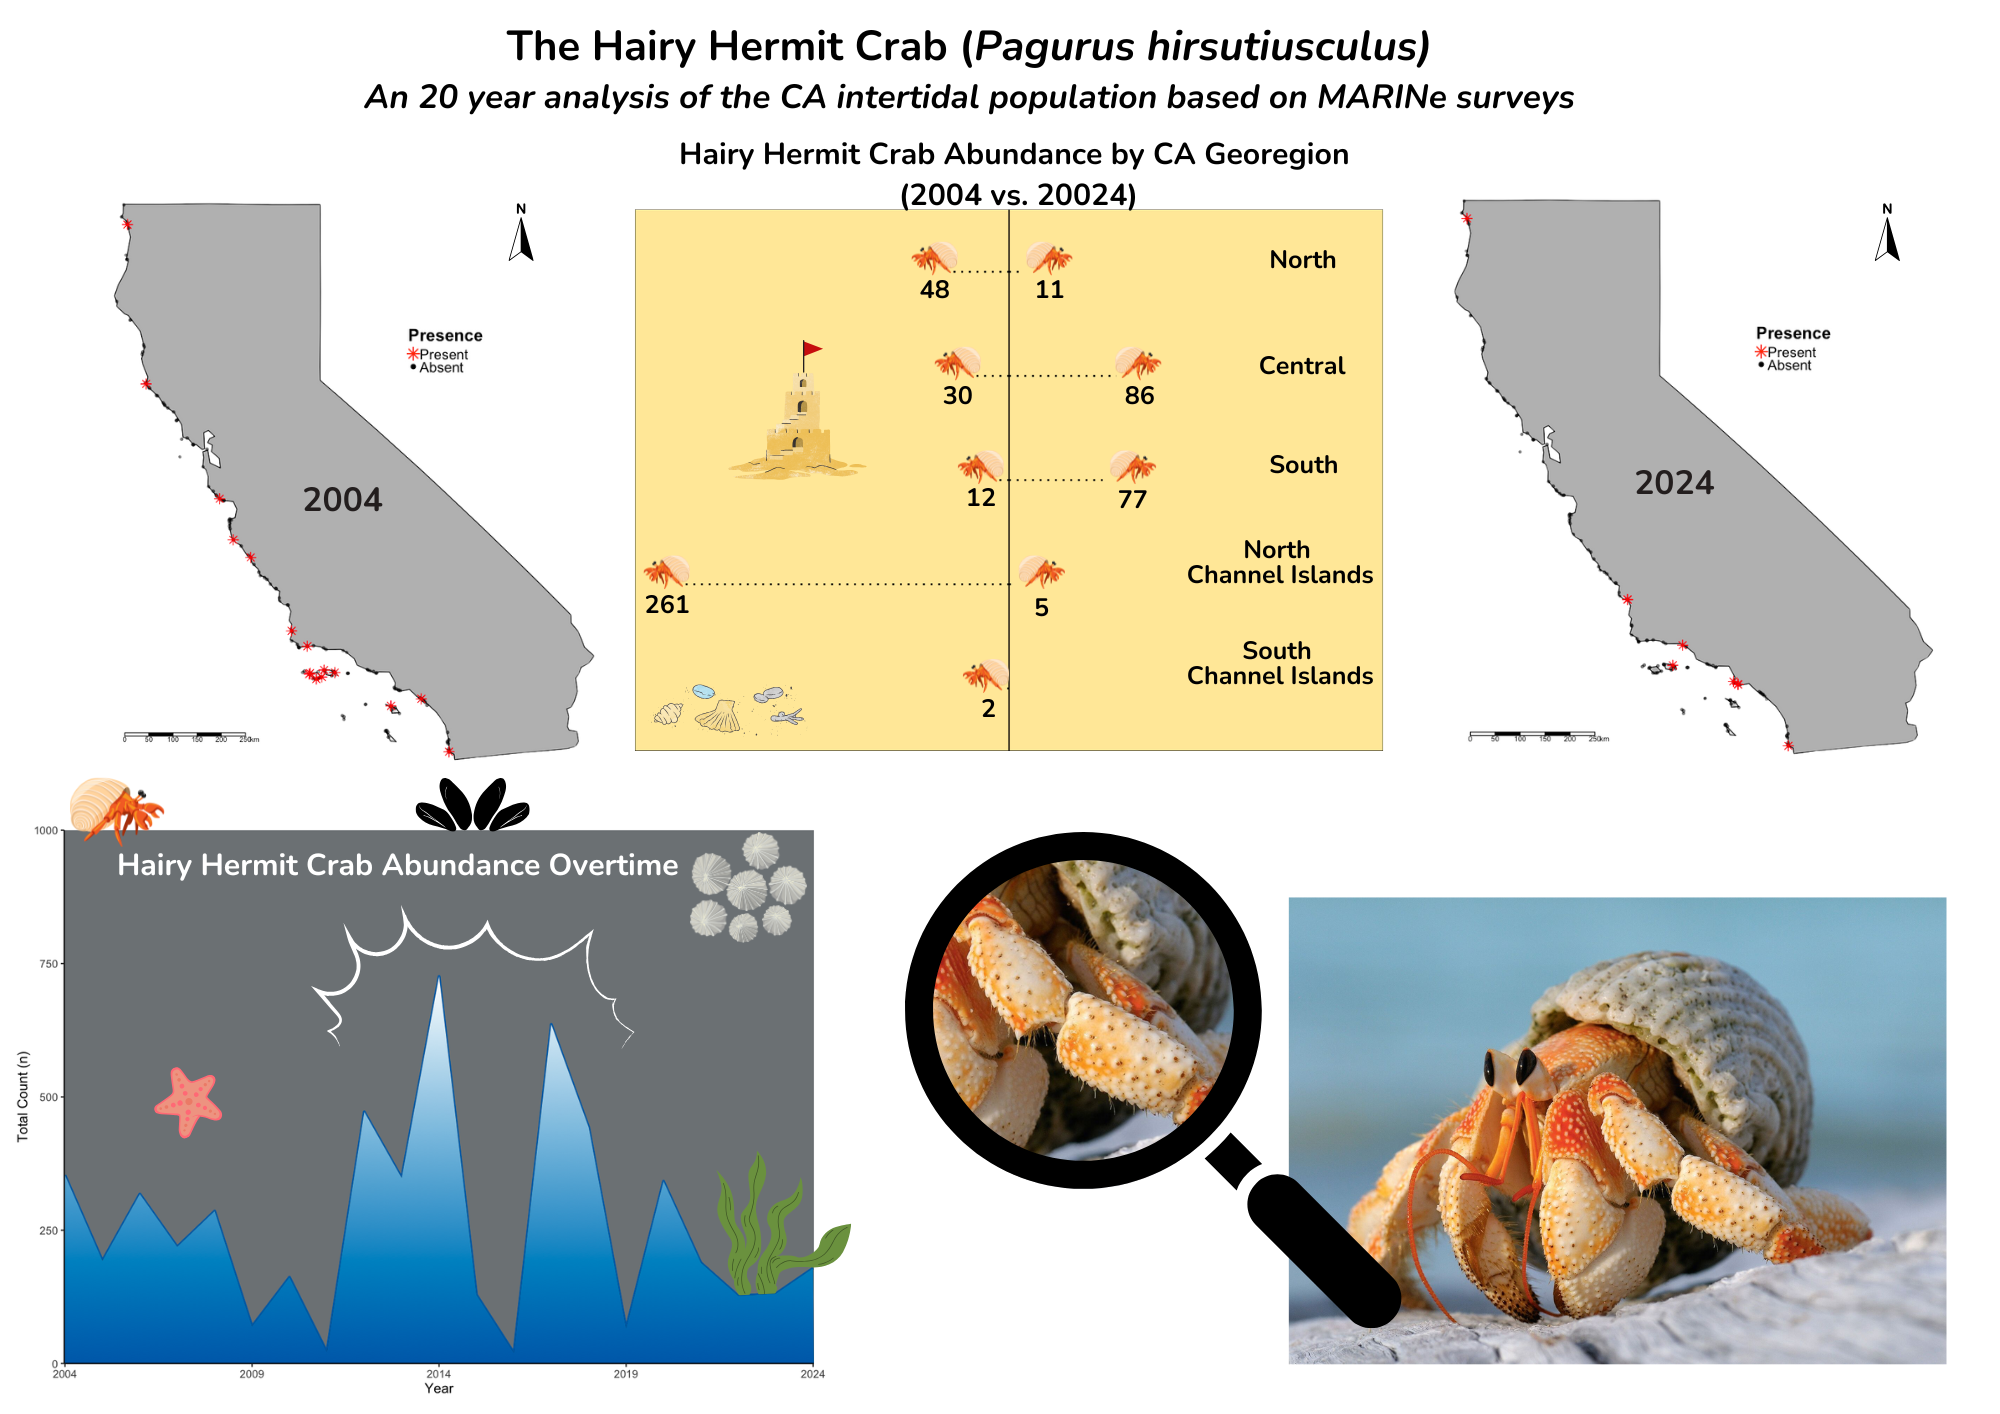
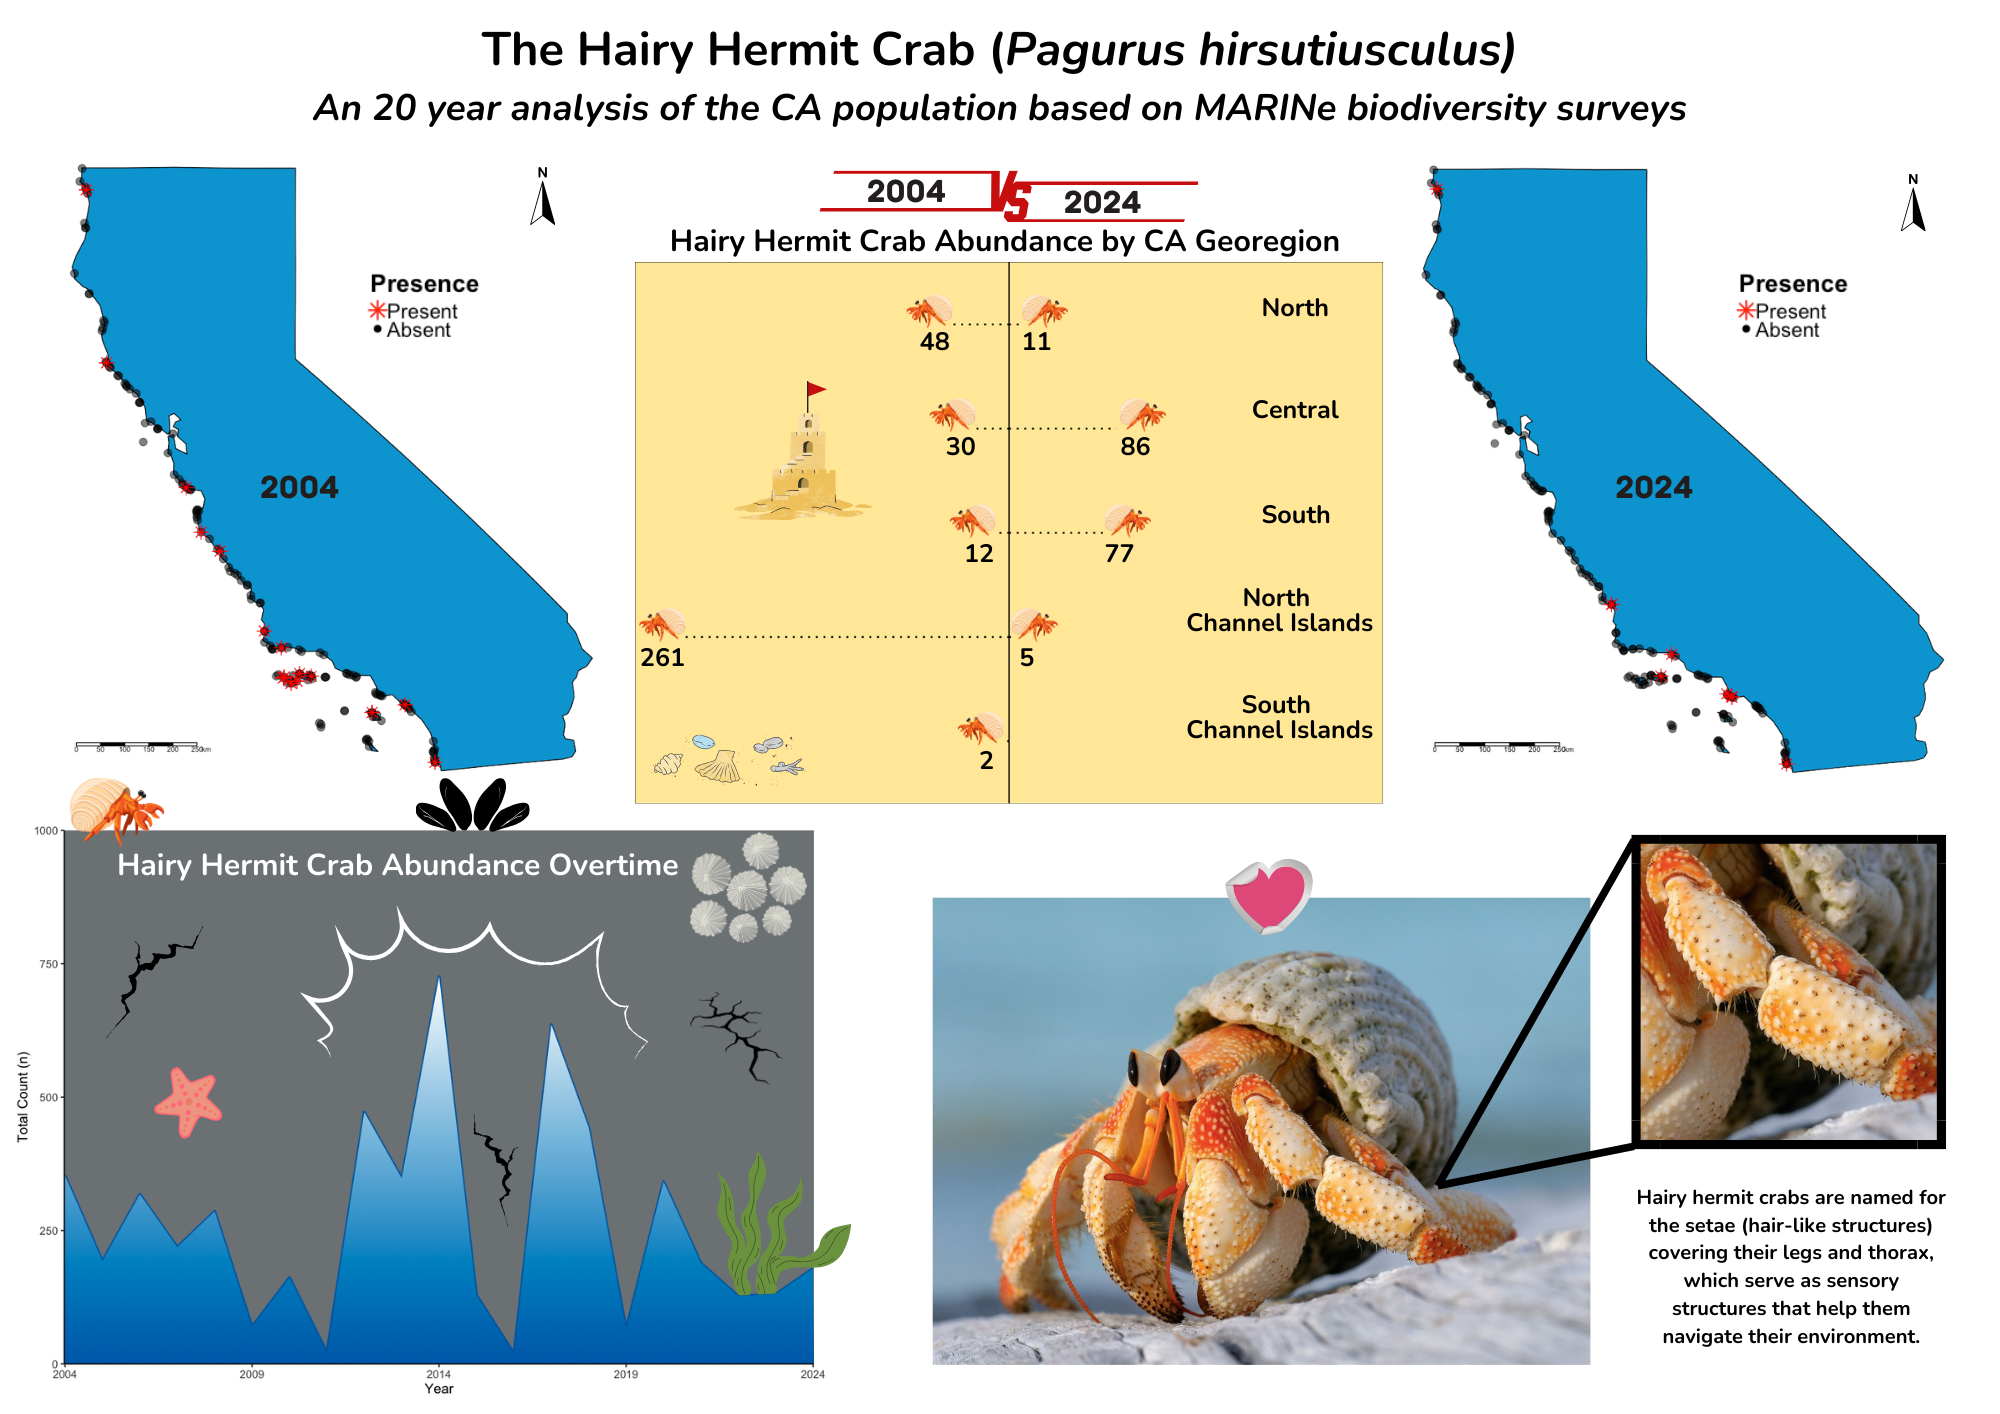
update infographic

diff --git a/docs/posts/2025-03-14-hairy-hermit-crabs/index.html b/docs/posts/2025-03-14-hairy-hermit-crabs/index.html
@@ -235,7 +235,12 @@ pre > code.sourceCode > span > a:first-child::before { text-decoration: underlin
 <section id="approach" class="level2">
 <h2 class="anchored" data-anchor-id="approach">Approach</h2>
 <p>In approaching this topic, I aimed to visualize geographical differences and changes in abundance at survey sites over time.</p>
-<p>Key questions that guided my analysis include: - Given the overall trend of climate change, is there evidence of a northern migration? - Are there notable differences in abundance in each California georegion? - Has the population declined significantly over time?</p>
+<p>Key questions that guided my analysis include:</p>
+<ul>
+<li>Given the overall trend of climate change, is there evidence of a northern migration?</li>
+<li>Are there notable differences in abundance in each California georegion?</li>
+<li>Has the population declined significantly over time?</li>
+</ul>
 <p>Despite the severity of my analysis, I chose to present my findings using engaging and easy-to-understand visualizations, such as line plots, lollipop charts, and maps, to make the information accessible to audiences of all ages.</p>
 </section>
 <section id="design-process" class="level2">

diff --git a/docs/posts.html b/docs/posts.html
@@ -286,7 +286,7 @@ Dec 13, 2024
 </div>
 </a>
 </div>
-<div class="g-col-1" data-index="2" data-categories="Data Visualization,Science Communication,Conservation" data-listing-date-sort="1710399600000" data-listing-file-modified-sort="1742008615440" data-listing-date-modified-sort="NaN" data-listing-reading-time-sort="8" data-listing-word-count-sort="1427">
+<div class="g-col-1" data-index="2" data-categories="Data Visualization,Science Communication,Conservation" data-listing-date-sort="1710399600000" data-listing-file-modified-sort="1742352335136" data-listing-date-modified-sort="NaN" data-listing-reading-time-sort="8" data-listing-word-count-sort="1427">
 <a href="./posts/2025-03-14-hairy-hermit-crabs/index.html" class="quarto-grid-link">
 <div class="quarto-grid-item card h-100 card-left">
 <p class="card-img-top"><img src="posts/2025-03-14-hairy-hermit-crabs/infographic.png" style="height: 150px;"  class="thumbnail-image card-img"/></p>
